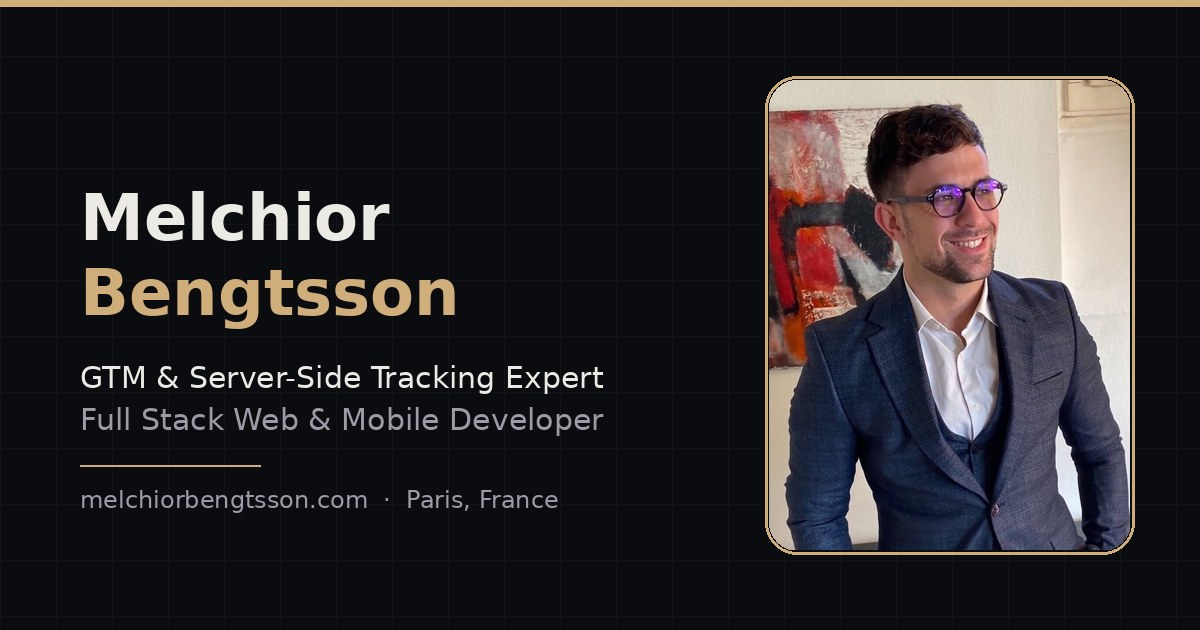
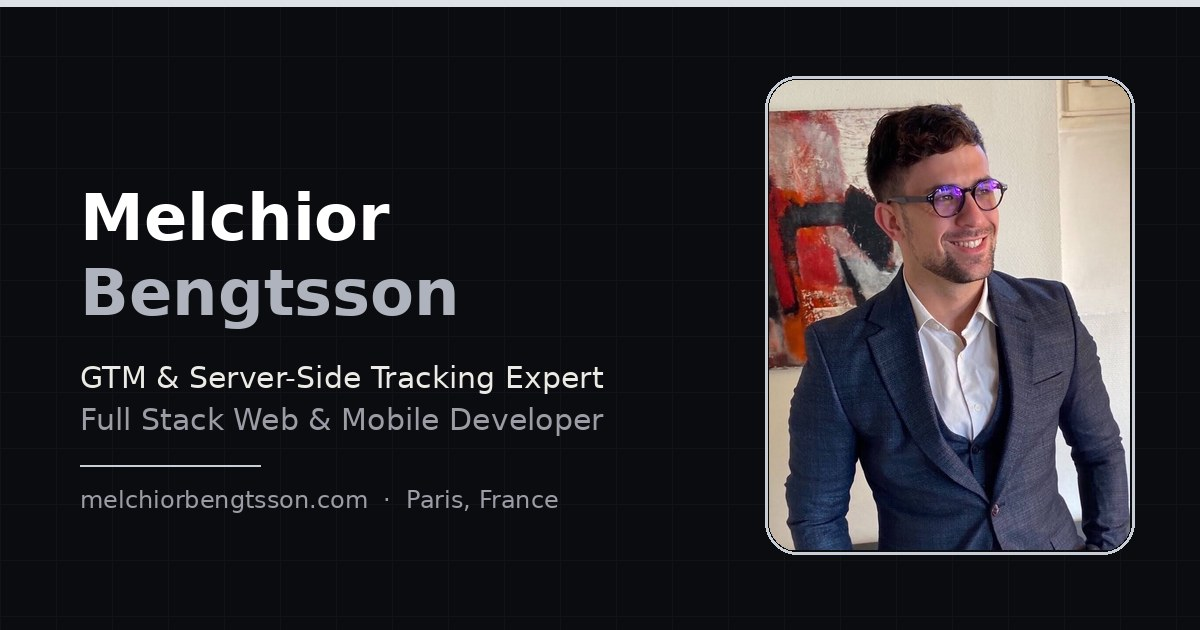
Simplify palette: neutral silver monochrome, remove gold accent

diff --git a/index.html b/index.html
@@ -60,10 +60,10 @@
   --text:#eceae4;
   --muted:#9a9da5;
   --c1:#8ea1b8;
-  --c2:#cfae7b;
+  --c2:#dde1e8;
   --c3:#b48e92;
   --c4:#a8b5a0;
-  --grad:linear-gradient(115deg,#ece0c4 0%,#cfae7b 55%,#a8906a 100%);
+  --grad:linear-gradient(115deg,#ffffff 0%,#c9cdd6 100%);
   --font-d:'Space Grotesk',sans-serif;
   --font-b:'Inter',sans-serif;
   --font-m:'JetBrains Mono',monospace;
@@ -74,7 +74,7 @@ body{background:var(--bg);color:var(--text);font-family:var(--font-b);overflow-x
 ::selection{background:rgba(142,161,184,.5)}
 ::-webkit-scrollbar{width:9px}
 ::-webkit-scrollbar-track{background:var(--bg)}
-::-webkit-scrollbar-thumb{background:linear-gradient(#8ea1b8,#cfae7b);border-radius:99px}
+::-webkit-scrollbar-thumb{background:linear-gradient(#8ea1b8,#dde1e8);border-radius:99px}
 
 /* ---------- Preloader ---------- */
 #preloader{position:fixed;inset:0;background:var(--bg);z-index:9999;display:flex;flex-direction:column;align-items:center;justify-content:center;gap:26px;transition:opacity .8s ease,visibility .8s}
@@ -88,27 +88,27 @@ body{background:var(--bg);color:var(--text);font-family:var(--font-b);overflow-x
 
 /* ---------- Cursor ---------- */
 .cursor-dot,.cursor-ring{position:fixed;top:0;left:0;pointer-events:none;z-index:9998;border-radius:50%;transform:translate(-50%,-50%)}
-.cursor-dot{width:7px;height:7px;background:#cfae7b;box-shadow:0 0 12px #cfae7b}
+.cursor-dot{width:7px;height:7px;background:#dde1e8;box-shadow:0 0 12px #dde1e8}
 .cursor-ring{width:38px;height:38px;border:1.5px solid rgba(142,161,184,.7);transition:width .25s,height .25s,border-color .25s,background .25s}
-body.link-hover .cursor-ring{width:64px;height:64px;border-color:rgba(207,174,123,.9);background:rgba(207,174,123,.08)}
+body.link-hover .cursor-ring{width:64px;height:64px;border-color:rgba(221,225,232,.9);background:rgba(221,225,232,.08)}
 @media(pointer:coarse){.cursor-dot,.cursor-ring{display:none}}
 
 /* ---------- Scroll progress ---------- */
-#progress{position:fixed;top:0;left:0;height:3px;width:0;background:var(--grad);z-index:1001;box-shadow:0 0 14px rgba(207,174,123,.7)}
+#progress{position:fixed;top:0;left:0;height:3px;width:0;background:var(--grad);z-index:1001;box-shadow:0 0 14px rgba(221,225,232,.7)}
 
 /* ---------- Nav ---------- */
 nav{position:fixed;top:18px;left:50%;transform:translateX(-50%);z-index:1000;display:flex;align-items:center;gap:6px;padding:9px 14px;border-radius:99px;background:rgba(10,12,28,.55);border:1px solid var(--border);backdrop-filter:blur(18px);-webkit-backdrop-filter:blur(18px);box-shadow:0 8px 32px rgba(0,0,0,.45);transition:top .4s}
 nav .logo{font-family:var(--font-m);font-weight:600;font-size:.95rem;padding:0 12px;background:var(--grad);-webkit-background-clip:text;background-clip:text;-webkit-text-fill-color:transparent;white-space:nowrap}
 nav a.nl{color:var(--muted);text-decoration:none;font-size:.83rem;font-weight:500;padding:7px 13px;border-radius:99px;transition:.3s;white-space:nowrap}
 nav a.nl:hover{color:var(--text);background:var(--surface2)}
-nav a.nl.active{color:#fff;background:linear-gradient(120deg,rgba(207,174,123,.18),rgba(142,161,184,.25));box-shadow:inset 0 0 0 1px rgba(207,174,123,.25)}
+nav a.nl.active{color:#fff;background:linear-gradient(120deg,rgba(221,225,232,.18),rgba(142,161,184,.25));box-shadow:inset 0 0 0 1px rgba(221,225,232,.25)}
 @media(max-width:820px){nav a.nl{display:none}nav .logo{padding:0 6px}nav{gap:0}}
 
 /* ---------- Aurora background ---------- */
 .aurora{position:fixed;inset:0;z-index:-2;overflow:hidden;background:radial-gradient(ellipse at 20% -10%,#14161d 0%,var(--bg) 55%)}
 .aurora .blob{position:absolute;border-radius:50%;filter:blur(100px);opacity:.26;mix-blend-mode:screen}
 .b1{width:52vw;height:52vw;background:radial-gradient(circle,rgba(142,161,184,.5),transparent 65%);top:-14vw;left:-10vw;animation:drift1 26s ease-in-out infinite alternate}
-.b2{width:44vw;height:44vw;background:radial-gradient(circle,rgba(207,174,123,.34),transparent 65%);top:22vh;right:-14vw;animation:drift2 32s ease-in-out infinite alternate}
+.b2{width:44vw;height:44vw;background:radial-gradient(circle,rgba(221,225,232,.34),transparent 65%);top:22vh;right:-14vw;animation:drift2 32s ease-in-out infinite alternate}
 .b3{width:38vw;height:38vw;background:radial-gradient(circle,rgba(180,142,146,.25),transparent 65%);bottom:-16vw;left:26vw;animation:drift3 38s ease-in-out infinite alternate}
 @keyframes drift1{to{transform:translate(14vw,10vh) scale(1.15)}}
 @keyframes drift2{to{transform:translate(-10vw,-8vh) scale(.9)}}
@@ -140,10 +140,10 @@ h1 .line:nth-child(2) span{animation-delay:.12s;background:var(--grad);backgroun
 .hero-desc{max-width:560px;color:var(--muted);font-size:1.05rem;margin-bottom:38px}
 .hero-cta{display:flex;gap:16px;flex-wrap:wrap}
 .btn{position:relative;display:inline-flex;align-items:center;gap:10px;padding:15px 30px;border-radius:99px;font-weight:600;font-size:.95rem;text-decoration:none;transition:.35s;overflow:hidden;font-family:var(--font-d)}
-.btn-primary{color:#0b0c10;background:var(--grad);background-size:200% auto;box-shadow:0 8px 30px rgba(207,174,123,.35)}
+.btn-primary{color:#0b0c10;background:var(--grad);background-size:200% auto;box-shadow:0 8px 30px rgba(221,225,232,.35)}
 .btn-primary:hover{background-position:right center;transform:translateY(-3px);box-shadow:0 14px 40px rgba(142,161,184,.5)}
 .btn-ghost{color:var(--text);border:1px solid var(--border);background:var(--surface)}
-.btn-ghost:hover{border-color:rgba(207,174,123,.5);background:var(--surface2);transform:translateY(-3px)}
+.btn-ghost:hover{border-color:rgba(221,225,232,.5);background:var(--surface2);transform:translateY(-3px)}
 .scroll-hint{position:absolute;bottom:34px;left:50%;transform:translateX(-50%);z-index:2;display:flex;flex-direction:column;align-items:center;gap:8px;color:var(--muted);font-size:.72rem;letter-spacing:.25em;text-transform:uppercase;font-family:var(--font-m)}
 .mouse{width:24px;height:38px;border:1.5px solid var(--muted);border-radius:14px;position:relative}
 .mouse::after{content:"";position:absolute;top:7px;left:50%;transform:translateX(-50%);width:3px;height:7px;border-radius:99px;background:var(--c2);animation:wheel 1.8s infinite}
@@ -164,7 +164,7 @@ h1 .line:nth-child(2) span{animation-delay:.12s;background:var(--grad);backgroun
 .photo-card{position:relative;perspective:900px}
 .photo-frame{position:relative;border-radius:24px;overflow:hidden;border:1px solid var(--border);transform-style:preserve-3d;transition:transform .18s ease-out;box-shadow:0 24px 70px rgba(0,0,0,.55)}
 .photo-frame img{display:block;width:100%;filter:saturate(1.05) contrast(1.03)}
-.photo-frame::after{content:"";position:absolute;inset:0;background:linear-gradient(200deg,rgba(207,174,123,.16),transparent 40%,rgba(180,142,146,.14))}
+.photo-frame::after{content:"";position:absolute;inset:0;background:linear-gradient(200deg,rgba(221,225,232,.16),transparent 40%,rgba(180,142,146,.14))}
 .photo-glow{position:absolute;inset:-4px;border-radius:28px;background:var(--grad);filter:blur(26px);opacity:.32;z-index:-1;animation:glowPulse 5s ease-in-out infinite alternate}
 @keyframes glowPulse{to{opacity:.55;filter:blur(34px)}}
 .photo-badge{position:absolute;bottom:18px;left:18px;right:18px;padding:12px 16px;border-radius:14px;background:rgba(5,6,15,.65);backdrop-filter:blur(12px);-webkit-backdrop-filter:blur(12px);border:1px solid var(--border);font-family:var(--font-m);font-size:.78rem;color:var(--c2);transform:translateZ(40px)}
@@ -172,13 +172,13 @@ h1 .line:nth-child(2) span{animation-delay:.12s;background:var(--grad);backgroun
 .about-text strong{color:var(--text);font-weight:600}
 .about-chips{display:flex;flex-wrap:wrap;gap:10px;margin-top:26px}
 .chip{font-family:var(--font-m);font-size:.78rem;padding:8px 15px;border-radius:99px;border:1px solid var(--border);background:var(--surface);color:var(--muted);transition:.3s}
-.chip:hover{border-color:var(--c2);color:#fff;transform:translateY(-3px);box-shadow:0 6px 18px rgba(207,174,123,.2)}
+.chip:hover{border-color:var(--c2);color:#fff;transform:translateY(-3px);box-shadow:0 6px 18px rgba(221,225,232,.2)}
 </style>
 <style>
 /* ---------- Skills constellation ---------- */
 #skills{height:380vh;padding:0;max-width:none;position:relative}
 .skills-sticky{position:sticky;top:0;height:100vh;display:flex;flex-direction:column;max-width:1150px;margin:0 auto;padding:96px 28px 24px;overflow:hidden}
-.term{width:100%;max-width:880px;margin:28px auto 0;flex:1;min-height:0;display:flex;flex-direction:column;background:rgba(4,7,18,.82);border:1px solid var(--border);border-radius:16px;box-shadow:0 30px 90px rgba(0,0,0,.6),0 0 44px rgba(207,174,123,.08);backdrop-filter:blur(14px);-webkit-backdrop-filter:blur(14px);overflow:hidden}
+.term{width:100%;max-width:880px;margin:28px auto 0;flex:1;min-height:0;display:flex;flex-direction:column;background:rgba(4,7,18,.82);border:1px solid var(--border);border-radius:16px;box-shadow:0 30px 90px rgba(0,0,0,.6),0 0 44px rgba(221,225,232,.08);backdrop-filter:blur(14px);-webkit-backdrop-filter:blur(14px);overflow:hidden}
 .term-bar{display:flex;align-items:center;gap:8px;padding:13px 16px;border-bottom:1px solid var(--border);background:rgba(255,255,255,.03)}
 .tdot{width:12px;height:12px;border-radius:50%}
 .tr{background:#ff5f57}.ty{background:#febc2e}.tg{background:#28c840}
@@ -223,8 +223,8 @@ h2.title em .w,.contact-big em .w{background:var(--grad);-webkit-background-clip
 .int-grid.stagger.visible>*{transform:none}
 
 /* ---------- Product links ---------- */
-.org a,.tl-card li a,.about-text a{color:var(--c2);text-decoration:none;border-bottom:1px dashed rgba(207,174,123,.45);padding-bottom:1px;transition:.3s}
-.org a:hover,.tl-card li a:hover,.about-text a:hover{color:#fff;border-bottom-color:#fff;text-shadow:0 0 14px rgba(207,174,123,.8)}
+.org a,.tl-card li a,.about-text a{color:var(--c2);text-decoration:none;border-bottom:1px dashed rgba(221,225,232,.45);padding-bottom:1px;transition:.3s}
+.org a:hover,.tl-card li a:hover,.about-text a:hover{color:#fff;border-bottom-color:#fff;text-shadow:0 0 14px rgba(221,225,232,.8)}
 .org a::after,.tl-card li a::after,.about-text a::after{content:"↗";font-size:.75em;margin-left:3px;opacity:.7}
 .tl-card.featured{border-color:rgba(168,181,160,.35);background:linear-gradient(160deg,rgba(168,181,160,.06),var(--surface) 45%)}
 .tl-new{font-family:var(--font-m);font-size:.72rem;color:var(--bg);background:var(--c4);border-radius:99px;padding:5px 12px;margin-left:10px;font-weight:600;letter-spacing:.06em;text-transform:uppercase;display:inline-block;animation:newPulse 2.2s ease-in-out infinite}
@@ -233,10 +233,10 @@ h2.title em .w,.contact-big em .w{background:var(--grad);-webkit-background-clip
 /* ---------- Timeline ---------- */
 .timeline{position:relative;margin-left:8px}
 .timeline::before{content:"";position:absolute;left:0;top:0;bottom:0;width:2px;background:rgba(255,255,255,.08)}
-.tl-progress{position:absolute;left:0;top:0;width:2px;height:0;background:var(--grad);box-shadow:0 0 12px rgba(207,174,123,.6)}
+.tl-progress{position:absolute;left:0;top:0;width:2px;height:0;background:var(--grad);box-shadow:0 0 12px rgba(221,225,232,.6)}
 .tl-item{position:relative;padding:0 0 46px 42px}
 .tl-item .dot{position:absolute;left:-7px;top:6px;width:16px;height:16px;border-radius:50%;background:var(--bg);border:2px solid var(--c2);transition:.4s;z-index:1}
-.tl-item.visible .dot{background:var(--c2);box-shadow:0 0 0 6px rgba(207,174,123,.15),0 0 18px rgba(207,174,123,.7)}
+.tl-item.visible .dot{background:var(--c2);box-shadow:0 0 0 6px rgba(221,225,232,.15),0 0 18px rgba(221,225,232,.7)}
 .tl-card{background:var(--surface);border:1px solid var(--border);border-radius:18px;padding:26px 28px;backdrop-filter:blur(10px);-webkit-backdrop-filter:blur(10px);transition:.35s}
 .tl-card:hover{transform:translateX(8px);border-color:rgba(142,161,184,.45);box-shadow:0 16px 44px rgba(0,0,0,.4)}
 .tl-date{font-family:var(--font-m);font-size:.75rem;color:var(--c4);letter-spacing:.12em;text-transform:uppercase;display:inline-block;padding:5px 12px;border:1px solid rgba(168,181,160,.25);border-radius:99px;background:rgba(168,181,160,.05);margin-bottom:12px}
@@ -251,8 +251,8 @@ h2.title em .w,.contact-big em .w{background:var(--grad);-webkit-background-clip
 /* ---------- Education / Languages ---------- */
 .edu-grid{display:grid;grid-template-columns:repeat(auto-fit,minmax(270px,1fr));gap:22px}
 .edu-card{background:var(--surface);border:1px solid var(--border);border-radius:20px;padding:30px;backdrop-filter:blur(10px);-webkit-backdrop-filter:blur(10px);transition:.35s;position:relative;overflow:hidden}
-.edu-card::after{content:"";position:absolute;width:130px;height:130px;border-radius:50%;background:radial-gradient(circle,rgba(207,174,123,.16),transparent 70%);top:-40px;right:-40px}
-.edu-card:hover{transform:translateY(-6px);border-color:rgba(207,174,123,.4)}
+.edu-card::after{content:"";position:absolute;width:130px;height:130px;border-radius:50%;background:radial-gradient(circle,rgba(221,225,232,.16),transparent 70%);top:-40px;right:-40px}
+.edu-card:hover{transform:translateY(-6px);border-color:rgba(221,225,232,.4)}
 .edu-card .yr{font-family:var(--font-m);font-size:.75rem;color:var(--c2);letter-spacing:.15em}
 .edu-card h3{font-family:var(--font-d);font-size:1.25rem;margin:8px 0 6px}
 .edu-card p{color:var(--muted);font-size:.9rem}
@@ -486,7 +486,7 @@ footer b{background:var(--grad);-webkit-background-clip:text;background-clip:tex
     <div class="edu-card"><span class="yr">2018 · 2019</span><h3>Certificates</h3><p>Design Thinking (2018) · Matrice (2019)</p></div>
   </div>
   <div class="lang-row stagger">
-    <svg width="0" height="0"><defs><linearGradient id="ringGrad" x1="0%" y1="0%" x2="100%" y2="100%"><stop offset="0%" stop-color="#cfae7b"/><stop offset="55%" stop-color="#8ea1b8"/><stop offset="100%" stop-color="#b48e92"/></linearGradient></defs></svg>
+    <svg width="0" height="0"><defs><linearGradient id="ringGrad" x1="0%" y1="0%" x2="100%" y2="100%"><stop offset="0%" stop-color="#dde1e8"/><stop offset="55%" stop-color="#8ea1b8"/><stop offset="100%" stop-color="#b48e92"/></linearGradient></defs></svg>
     <div class="lang">
       <div class="ring"><svg width="120" height="120"><circle class="bgc" cx="60" cy="60" r="52"/><circle class="fgc" cx="60" cy="60" r="52" data-pct="100"/></svg><div class="pct">100%</div></div>
       <div class="lname">French</div><div class="llvl">native</div>
@@ -559,7 +559,7 @@ window.addEventListener('load',()=>{resize();mkPts();});
 let mpx=-999,mpy=-999;
 cv.parentElement.addEventListener('mousemove',e=>{const b=cv.getBoundingClientRect();mpx=e.clientX-b.left;mpy=e.clientY-b.top;});
 cv.parentElement.addEventListener('mouseleave',()=>{mpx=-999;mpy=-999;});
-const COLS=['#cfae7b','#8ea1b8','#b48e92','#a8b5a0'];
+const COLS=['#dde1e8','#8ea1b8','#b48e92','#a8b5a0'];
 function tick(){
   ctx.clearRect(0,0,W,H);
   for(let i=0;i<pts.length;i++){
@@ -618,13 +618,13 @@ const SCRIPT=[
  {type:'cmd',text:'whoami'},
  {type:'lines',lines:[['Melchior Bengtsson — Technical Account Manager · Full Stack Developer','#eceae4']]},
  {type:'cmd',text:'melchior --skills client-facing'},
- {type:'pills',color:'#cfae7b',items:['Technical account management','Onboarding & support','Integration audits','Debugging','Jira / Helpdesk','Documentation']},
+ {type:'pills',color:'#9fb2c8',items:['Technical account management','Onboarding & support','Integration audits','Debugging','Jira / Helpdesk','Documentation']},
  {type:'cmd',text:'melchior --skills martech-privacy'},
  {type:'pills',color:'#a8b5a0',items:['GTM','server-side GTM','Consent Mode','GA4','Meta CAPI','GDPR / IAB TCF','CMP','Shopify','PostHog']},
  {type:'cmd',text:'melchior --skills development'},
  {type:'pills',color:'#b48e92',items:['React','React Native','Next.js','Node.js','Python','SQL','AWS Lambda','Docker','Flutter','Firebase','Supabase','HTML / CSS / JS']},
  {type:'cmd',text:'melchior --status'},
- {type:'lines',lines:[['● open to new challenges','#a8b5a0'],['● based in Paris, France','#9a9da5'],['▲ currently shipping dresslist.fr','#cfae7b']]}
+ {type:'lines',lines:[['● open to new challenges','#a8b5a0'],['● based in Paris, France','#9a9da5'],['▲ currently shipping dresslist.fr','#eceae4']]}
 ];
 const units=[],cmdEnds=[];
 const noop=()=>{};
